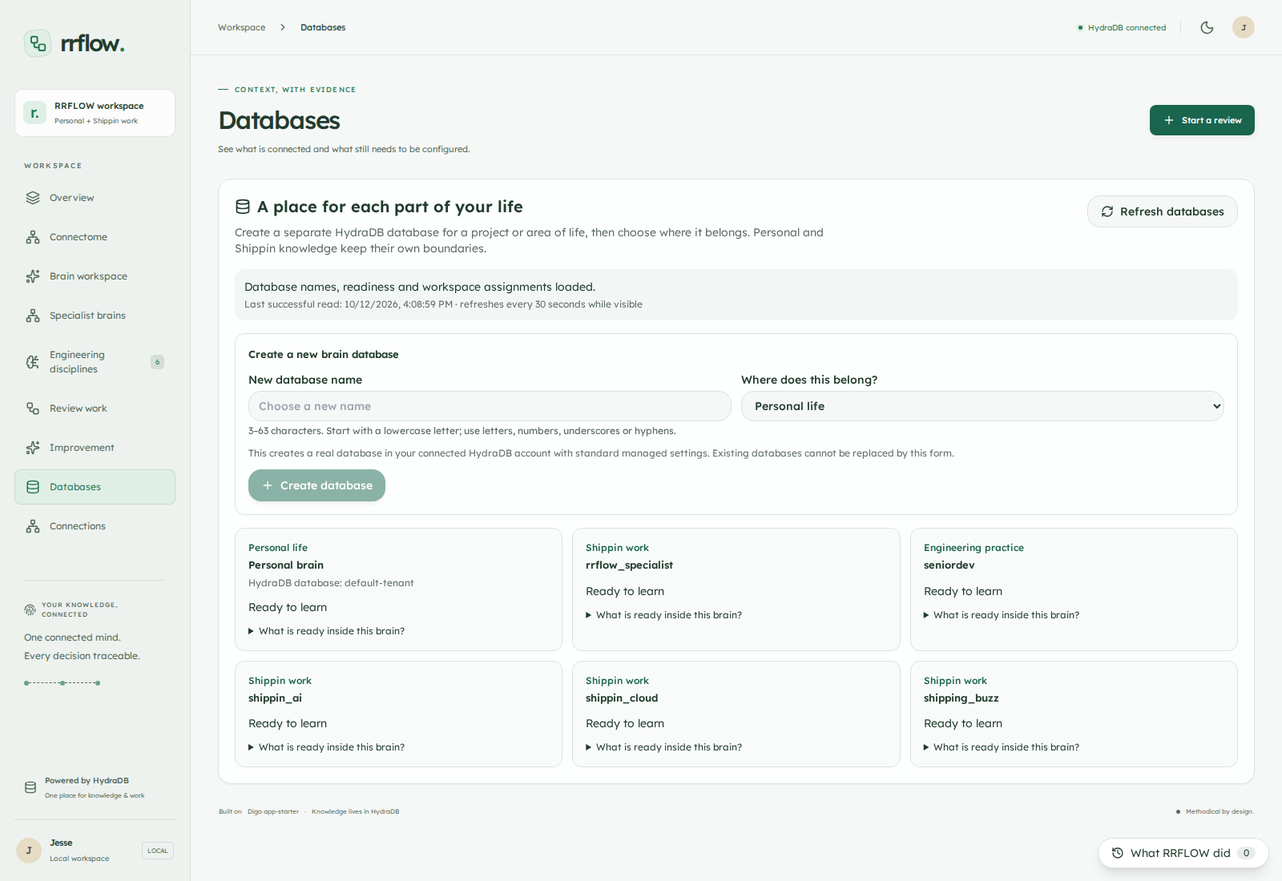
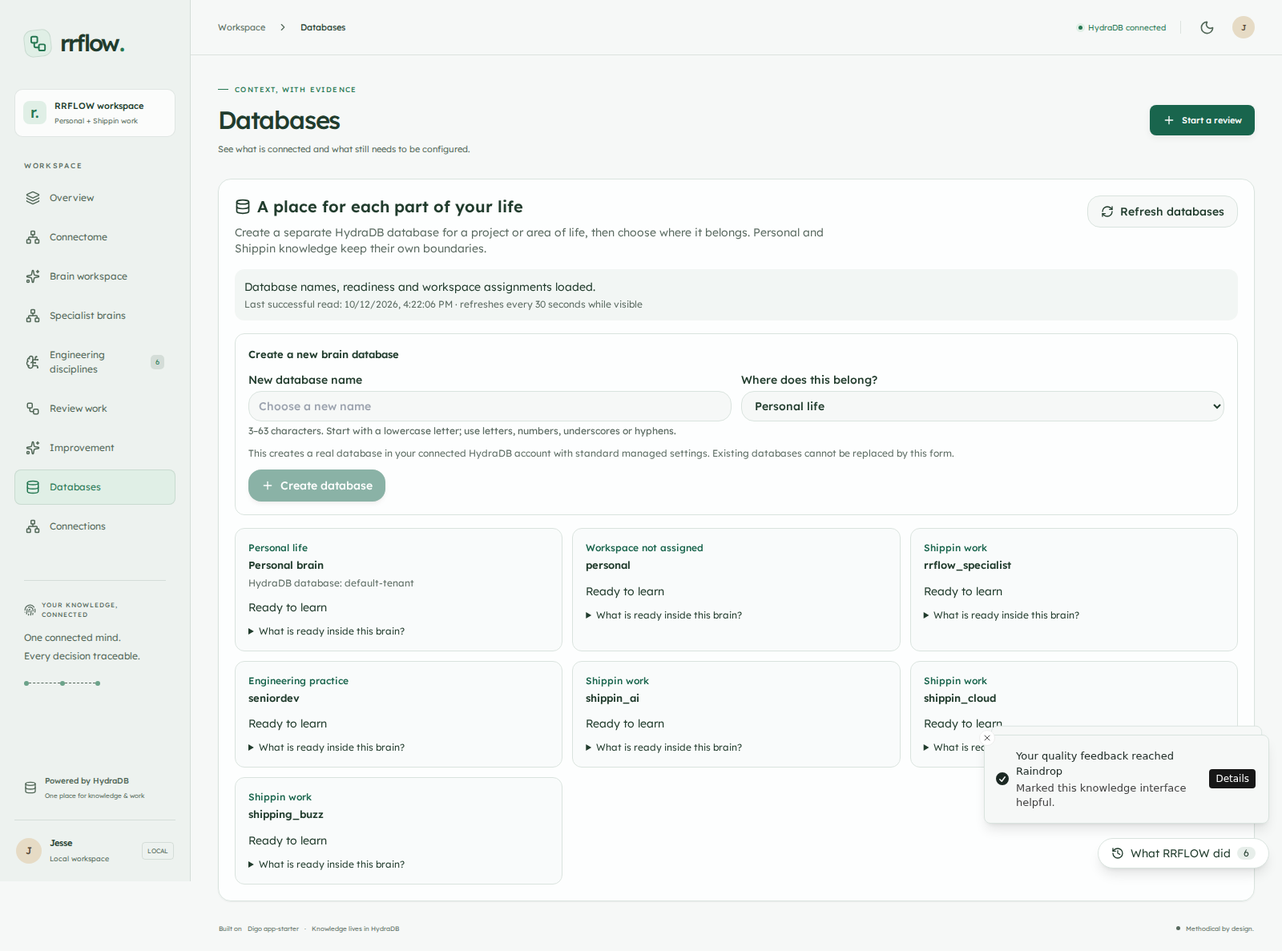
Bring live HydraDB context and Raindrop feedback into Overview

diff --git a/rrflow-app/apps/rrflow/src/components/brain-ui/brain-workspace.tsx b/rrflow-app/apps/rrflow/src/components/brain-ui/brain-workspace.tsx
@@ -15,7 +15,7 @@ type Avenue = BrainUiModel['avenues'][number];
 const sourceUrl = (url: string) => { try { return new URL(url).protocol === 'https:' ? url : undefined; } catch { return undefined; } };
 const time = (value: string) => new Date(value).toLocaleTimeString([], { hour: 'numeric', minute: '2-digit', second: '2-digit' });
 
-export const BrainWorkspace = () => {
+export const BrainWorkspace = ({ compact = false }: { compact?: boolean }) => {
   const [goal, setGoal] = useState('Prepare the shippin.cloud Next.js dashboard for launch: accessible interactions, loading states, and reliable data access.');
   const [stack, setStack] = useState<Exclude<BrainId, 'core'>>('nextjs');
   const [project, setProject] = useState<ProjectContext | null>(null);
@@ -88,7 +88,11 @@ export const BrainWorkspace = () => {
     if (!surface || !model || depth > 10) return null;
     const component = surface.components[id];
     if (!component) return <div key={id} className={styles.placeholder}>Waiting for interface content…</div>;
-    if (component.component === 'Column') return <div key={id} className={styles.surface}>{component.children.map(child => renderComponent(child, depth + 1))}</div>;
+    if (component.component === 'Column') {
+      const order: Record<string, number> = { WorkflowStatus: 0, BrainSummary: 1, Observation: 2, AvenueCard: 3 };
+      const children = compact ? [...component.children].sort((a, b) => (order[surface.components[a]?.component] ?? 4) - (order[surface.components[b]?.component] ?? 4)) : component.children;
+      return <div key={id} className={styles.surface}>{children.map(child => renderComponent(child, depth + 1))}</div>;
+    }
     if (component.component === 'WorkflowStatus') return <section key={id} className={styles.status} aria-label="Orchestration status">
       <div className={styles.sectionTitle}><Network size={18} /><h2>Work, with a visible trail</h2><span className={styles.badge}>Triggered workflow</span></div>
       <ol className={styles.stages}>
@@ -118,6 +122,8 @@ export const BrainWorkspace = () => {
     return <section key={id} className={styles.observation} aria-label="Raindrop quality">
       <div className={styles.sectionTitle}><Radio size={19} /><h2>Make the next result better</h2><span className={styles.badge}>Raindrop</span></div>
       <p>Report whether these avenues help with your work. Raindrop links that verdict to the source revisions and HydraDB requests behind this interface.</p>
+      <dl className={styles.alignmentFacts}><div><dt>Context selected from HydraDB</dt><dd>{model.brains.map(item => item.brain.name).join(' + ') || 'Waiting for knowledge'}</dd></div><div><dt>Knowledge avenues</dt><dd>{model.avenues.length}</dd></div><div><dt>Source revisions</dt><dd>{model.brains.length}</dd></div></dl>
+      <details className={styles.alignmentEvidence}><summary>Inspect the context behind this feedback</summary><p>Event {model.eventId}</p>{model.brains.map(item => <p key={item.brain.id}>{item.brain.name} · revision {item.brain.revision}</p>)}<p>{model.receipts.filter(receipt => receipt.service === 'HydraDB').length} HydraDB requests. Use “Inspect real requests” for timings and native request IDs.</p></details>
       <div className={styles.delivery} role="status">{model.observation.status === 'accepted' ? <Check size={16} /> : ['waiting', 'pending'].includes(model.observation.status) && isLoading ? <LoaderCircle className={styles.spin} size={16} /> : <CircleAlert size={16} />}
         {model.observation.status === 'accepted' ? 'Event accepted by Raindrop' : model.observation.status === 'pending' ? isLoading ? 'Reporting this interface… Knowledge is ready to use.' : 'Reporting completion is unknown. Retry to verify.' : model.observation.status === 'waiting' ? isLoading ? 'Waiting for the knowledge reads' : 'Reporting did not finish' : model.observation.status === 'not_configured' ? 'Raindrop reporting is not configured' : model.observation.error || 'Reporting failed. Knowledge remains available.'}
       </div>
@@ -131,8 +137,8 @@ export const BrainWorkspace = () => {
   };
 
   return <div className={styles.workspace}>
-    <section className={styles.intro}><span className={styles.kicker}><Sparkles size={15} /> KNOWLEDGE BECOMES YOUR WORKSPACE</span><h2>The right context.<br />Right where you work.</h2><p>Open a path through your engineering brains. Get sourced guidance, quick explanations, and the questions that deserve a closer look.</p></section>
-    <ProjectPicker project={project} onSelect={value => { setProject(value); setSurface(null); setError(''); const detected = (['nextjs', 'react', 'rust', 'go', 'typescript'] as const).find(id => value?.stack.includes(id)); if (detected) setStack(detected); }} disabled={isLoading || feedbackBusy || projectBusy} onBusy={setProjectBusy} />
+    <section className={styles.intro}><span className={styles.kicker}><Sparkles size={15} /> HYDRADB CONTEXT + RAINDROP FEEDBACK</span><h2>{compact ? 'Better context starts here.' : <>The right context.<br />Right where you work.</>}</h2><p>{compact ? 'Describe your work. Watch HydraDB populate the interface, inspect the sources, then tell Raindrop whether the selected context helps — all on this dashboard.' : 'Open a path through your engineering brains. Get sourced guidance, quick explanations, and the questions that deserve a closer look.'}</p></section>
+    <details open={compact ? undefined : true} className={styles.projectSection}><summary>Use an existing folder or GitHub project{project ? ` · ${project.name}` : ''}</summary><ProjectPicker project={project} onSelect={value => { setProject(value); setSurface(null); setError(''); const detected = (['nextjs', 'react', 'rust', 'go', 'typescript'] as const).find(id => value?.stack.includes(id)); if (detected) setStack(detected); }} disabled={isLoading || feedbackBusy || projectBusy} onBusy={setProjectBusy} /></details>
     <form className={styles.form} onSubmit={generate}>
       <label className={styles.goal}>What are you working on?<textarea value={goal} onChange={event => setGoal(event.target.value)} minLength={8} maxLength={1000} required rows={3} /></label>
       <div className={styles.formBottom}><label>Lead specialist<select value={stack} onChange={event => setStack(event.target.value as Exclude<BrainId, 'core'>)}>{brainIds.filter(id => id !== 'core').map(id => <option key={id} value={id}>{brainCatalog[id].name}</option>)}</select></label><Button className="primary-button" type="submit" disabled={isLoading || feedbackBusy || projectBusy}>{isLoading ? <LoaderCircle size={17} className={styles.spin} /> : <Sparkles size={17} />}{isLoading ? model && model.status.phase !== 'loading' ? 'Reporting quality…' : 'Opening knowledge…' : 'Build my workspace'}{!isLoading && <ArrowRight size={16} />}</Button>{isLoading && <Button variant="ghost" type="button" onClick={() => controller.current?.abort()}>Stop</Button>}</div>

diff --git a/rrflow-app/apps/rrflow/src/components/dashboard.tsx b/rrflow-app/apps/rrflow/src/components/dashboard.tsx
@@ -152,12 +152,14 @@ export const Dashboard = () => {
         </header>
 
         <main id="main" tabIndex={-1}>
-          <div className="page-heading"><div><div className="eyebrow accent"><span className="tiny-line" /> CONTEXT, WITH EVIDENCE</div><h1>{view === 'overview' ? 'Your engineering mind.' : displayName}</h1><p>{view === 'overview' ? 'Connected knowledge. Deliberate decisions. Better things shipped.' : view === 'connectome' ? 'Memories, research, and source connections — all in one explorable view.' : view === 'live' ? 'Live knowledge and memory for your company and service specialists.' : view === 'brain-ui' ? 'A living workspace, populated from your knowledge and measured with Raindrop.' : view === 'brains' ? 'Explore the research and questions behind every specialist.' : view === 'reviews' ? 'Make the work explicit, then gather the evidence to verify it.' : view === 'improvement' ? 'Learn from measured outcomes. Keep every revision traceable.' : 'See what is connected and what still needs to be configured.'}</p></div><Button className="primary-button" onClick={() => setNewReview(true)} disabled={!hasBrains || !workspace?.connected}><Plus size={16} />Start a review</Button></div>
+          <div className="page-heading"><div><div className="eyebrow accent"><span className="tiny-line" /> CONTEXT, WITH EVIDENCE</div><h1>{view === 'overview' ? 'Your context. Working together.' : displayName}</h1><p>{view === 'overview' ? 'HydraDB knowledge, generated guidance, and Raindrop feedback — in one live dashboard.' : view === 'connectome' ? 'Memories, research, and source connections — all in one explorable view.' : view === 'live' ? 'Live knowledge and memory for your company and service specialists.' : view === 'brain-ui' ? 'A living workspace, populated from your knowledge and measured with Raindrop.' : view === 'brains' ? 'Explore the research and questions behind every specialist.' : view === 'reviews' ? 'Make the work explicit, then gather the evidence to verify it.' : view === 'improvement' ? 'Learn from measured outcomes. Keep every revision traceable.' : 'See what is connected and what still needs to be configured.'}</p></div><Button className="primary-button" onClick={() => setNewReview(true)} disabled={!hasBrains || !workspace?.connected}><Plus size={16} />Start a review</Button></div>
 
           {error && <div role="alert" className="message error"><CircleAlert size={18} /><span>{error}{hasBrains && !workspace?.connected && <small className="stale-notice">Showing the last successful read from {readableTime(workspace!.checkedAt)}.</small>}</span><Button variant="ghost" size="sm" onClick={() => void refresh()}>Retry connection</Button></div>}
           {notice && <div role="status" className="message notice">{busy ? <LoaderCircle size={18} className="spin" /> : <Check size={18} />}<span>{notice}</span></div>}
           {!workspace && !error && <div className="loading-bar" role="status"><LoaderCircle size={17} className="spin" />Connecting to your knowledge workspace…</div>}
           {workspace?.connected && !hasBrains && <section className="onboarding glass"><div className="onboarding-orb"><BrainCircuit size={35} /></div><div><span className="eyebrow accent">YOUR FOUNDATION IS READY</span><h2>Give your specialist its knowledge.</h2><p>Import your six existing research documents. RRFLOW will connect each question to its source and organize it into knowledge avenues.</p><p className="fine-print">Research drafts remain drafts. Importing does not validate their claims.</p><Button className="primary-button" onClick={handleImport} disabled={busy}>{busy ? <LoaderCircle className="spin" size={16} /> : <ArrowDownToLine size={16} />}Import research into HydraDB</Button></div></section>}
+
+          {view === 'overview' && <section aria-label="Live context and quality" className="mb-8"><LiveMesh embedded dashboard><BrainWorkspace compact /></LiveMesh></section>}
 
           {hasBrains && (view === 'overview' || view === 'brains') && <>
             <div className="stats-strip">

diff --git a/rrflow-app/apps/rrflow/src/components/live/live-mesh.tsx b/rrflow-app/apps/rrflow/src/components/live/live-mesh.tsx
@@ -1,5 +1,5 @@
 'use client';
-import { useCallback, useEffect, useRef, useState } from 'react';
+import { useCallback, useEffect, useRef, useState, type ReactNode } from 'react';
 import { Activity, BookOpen, Brain, Clock, Database, RefreshCw, TriangleAlert, Zap } from 'lucide-react';
 import { cn } from '@/lib/utils';
 import type { MeshSnapshot } from '@/lib/mesh-contracts';
@@ -45,7 +45,7 @@ const buildTickers = (snapshot: MeshSnapshot, now: number): Ticker[] => {
   ];
 };
 
-export const LiveMesh = ({ embedded = false }: { embedded?: boolean }) => {
+export const LiveMesh = ({ embedded = false, dashboard = false, children }: { embedded?: boolean; dashboard?: boolean; children?: ReactNode }) => {
   const [snapshot, setSnapshot] = useState<MeshSnapshot | null>(null);
   const [failure, setFailure] = useState<string | null>(null);
   const [isRefreshing, setIsRefreshing] = useState(false);
@@ -145,7 +145,7 @@ export const LiveMesh = ({ embedded = false }: { embedded?: boolean }) => {
             ))}
           </section>
 
-          <section aria-labelledby="reasoning-heading" className="rounded-lg border border-border bg-card p-4">
+          {!dashboard && <section aria-labelledby="reasoning-heading" className="rounded-lg border border-border bg-card p-4">
             <h2 id="reasoning-heading" className="text-lg font-semibold">How RRFLOW works through a task</h2>
             <ol className="mt-4 grid gap-3 sm:grid-cols-2 lg:grid-cols-6">
               {REASONING_STEPS.map((step, index) => (
@@ -156,15 +156,17 @@ export const LiveMesh = ({ embedded = false }: { embedded?: boolean }) => {
                 </li>
               ))}
             </ol>
-          </section>
+          </section>}
 
-          <BrainMesh brains={snapshot.brains} shippinContext={snapshot.shippinContext} otherDatabases={snapshot.otherDatabases}
-            raindropProject={snapshot.raindropProject} now={now} />
+          {!dashboard && <BrainMesh brains={snapshot.brains} shippinContext={snapshot.shippinContext} otherDatabases={snapshot.otherDatabases}
+            raindropProject={snapshot.raindropProject} now={now} />}
 
           <RaindropCard project={snapshot.raindropProject} isMonitored={snapshot.isMonitored} now={now} />
 
+          {children}
+
           <div className="grid grid-cols-1 gap-6 lg:grid-cols-2">
-            <LearningFeed items={snapshot.learning} now={now} error={snapshot.learningError} requestId={snapshot.learningRequestId} />
+            <LearningFeed items={dashboard ? snapshot.learning.slice(0, 4) : snapshot.learning} now={now} error={snapshot.learningError} requestId={snapshot.learningRequestId} />
             <AskBrain />
           </div>
         </>

diff --git a/rrflow-app/apps/rrflow/tests/brain-ui.spec.ts b/rrflow-app/apps/rrflow/tests/brain-ui.spec.ts
@@ -14,6 +14,30 @@ const fixtureMessages = (data: BrainUiModel): BrainUiMessage[] => [
   { version: 'v0.9.1', updateComponents: { surfaceId: eventId, components: [{ id: 'root', component: 'Column', children: ['status', 'observation'] }, { id: 'status', component: 'WorkflowStatus', path: '/status' }, { id: 'observation', component: 'Observation', path: '/observation' }] } },
 ];
 
+test('Overview generates HydraDB context and records alignment feedback without leaving the dashboard', async ({ page }) => {
+  await page.setExtraHTTPHeaders({ 'x-rrflow-verification': 'playwright' });
+  await page.goto('/');
+  const dashboard = page.getByRole('region', { name: 'Live context and quality' });
+  await expect(dashboard.getByRole('region', { name: 'Live figures' })).toBeVisible();
+  const reporting = dashboard.getByRole('region', { name: 'Quality monitoring · Raindrop' });
+  await expect(reporting).toContainText('Reporting to project rrflow-hydradb');
+  await dashboard.getByRole('button', { name: 'Build my workspace', exact: true }).click();
+  const alignment = dashboard.getByRole('region', { name: 'Raindrop quality' });
+  await expect(alignment).toContainText('Event accepted by Raindrop');
+  await expect(alignment).toContainText('Engineering core + Next.js + TypeScript');
+  await alignment.getByText('Inspect the context behind this feedback', { exact: true }).click();
+  await expect(alignment).toContainText('6 HydraDB requests');
+  await alignment.getByRole('button', { name: 'This helps', exact: true }).click();
+  await expect(alignment).toContainText('Marked helpful.');
+  await expect(reporting.locator('dl > div').filter({ hasText: 'Events accepted' }).locator('dd')).toHaveText('1');
+  await expect(reporting.locator('dl > div').filter({ hasText: 'Verdicts accepted' }).locator('dd')).toHaveText('1');
+  await expect(reporting.locator('dl > div').filter({ hasText: 'Failed deliveries' }).locator('dd')).toHaveText('0');
+  await alignment.scrollIntoViewIfNeeded();
+  await page.screenshot({ path: 'test-results/dashboard-context-alignment.png', animations: 'disabled' });
+  await page.setViewportSize({ width: 390, height: 844 });
+  expect(await page.evaluate(() => document.documentElement.scrollWidth <= innerWidth)).toBeTruthy();
+});
+
 test('brain knowledge drives A2UI tooltips, dialogs, quality feedback and responsive themes', async ({ page }, testInfo) => {
   await page.setExtraHTTPHeaders({ 'x-rrflow-verification': 'playwright' });
   // Inspect the same streaming response the UI consumes. Chromium can discard

diff --git a/rrflow-app/apps/rrflow/src/components/brain-ui/brain-workspace.module.css b/rrflow-app/apps/rrflow/src/components/brain-ui/brain-workspace.module.css
@@ -1,4 +1,6 @@
 .workspace { display: grid; gap: 22px; min-width: 0; padding-bottom: 45px; }
+.projectSection { min-width: 0; }.projectSection > summary { cursor: pointer; font-size: 12px; color: var(--accent); padding: 12px 0; }
+.alignmentFacts { display: grid; grid-template-columns: minmax(0,2fr) repeat(2,minmax(0,1fr)); gap: 16px; padding: 16px; border: 1px solid var(--line); border-radius: 12px; background: var(--accent-soft); }.alignmentFacts dt { font-size: 11px; color: var(--muted); margin-bottom: 8px; }.alignmentFacts dd { font-size: 13px; font-weight: 500; line-height: 1.6; }.alignmentEvidence { font-size: 11px; color: var(--muted); margin: 16px 0; overflow-wrap: anywhere; }.alignmentEvidence summary { cursor: pointer; color: var(--accent); }.alignmentEvidence p { margin-top: 8px; }@media(max-width:600px) { .alignmentFacts { grid-template-columns: 1fr; } }
 .intro { padding: 24px 0 2px; max-width: 740px; }
 .kicker { display: flex; gap: 8px; align-items: center; color: var(--accent); font-size: 10px; letter-spacing: 1.4px; }
 .intro h2 { font-size: clamp(28px, 3.5vw, 43px); line-height: 1.14; letter-spacing: -1.4px; margin: 17px 0; }

diff --git a/rrflow-app/apps/rrflow/tests/connectome.spec.ts b/rrflow-app/apps/rrflow/tests/connectome.spec.ts
@@ -53,7 +53,7 @@ test('context refresh shows newly returned memories and reports failed source re
   revision++;
   await map.getByRole('button', { name: 'Refresh context', exact: true }).click();
   await expect(map.getByRole('button').filter({ hasText: 'Corrected memory' })).toBeVisible();
-  await expect(map.getByRole('alert')).toContainText('Source service unavailable');
+  await expect(map.getByRole('alert').filter({ hasText: 'Source service unavailable' })).toBeVisible();
   await expect(map.getByRole('button').filter({ hasText: 'First memory' })).toHaveCount(0);
 });
 

diff --git a/rrflow-app/apps/rrflow/next.config.ts b/rrflow-app/apps/rrflow/next.config.ts
@@ -1,5 +1,6 @@
 import type { NextConfig } from 'next';
 const config: NextConfig = {
+  distDir: process.env.RRFLOW_DIST_DIR || '.next',
   poweredByHeader: false,
   devIndicators: false,
   webpack(config, { dev }) {

diff --git a/submission/THREE_MINUTE_DEMO.md b/submission/THREE_MINUTE_DEMO.md
@@ -1,6 +1,6 @@
 # RRFLOW — three-minute live presentation
 
-Open RRFLOW at http://127.0.0.1:3100 and keep the Raindrop project in a second tab. Use Shippin and engineering lessons for screen sharing; keep personal email contents off the presentation. No server restart is needed.
+Open RRFLOW at http://127.0.0.1:3100. **Overview now contains live HydraDB context, generated A2UI guidance, Raindrop delivery counts, and alignment feedback together.** The external Raindrop tab is optional supporting evidence. Use Shippin and engineering lessons for screen sharing; keep personal email contents off the presentation. No server restart is needed.
 
 **Ready-to-show Raindrop evidence:** [generated workspace and context-alignment feedback](https://app.raindrop.ai/events?org=ea2ca283&project=rrflow-hydradb&event=6576c8be-0b0f-510b-a137-aec6aec33451&tab=overview) — Details shows Brain UI helpful, nine avenues, Engineering core / Next.js / TypeScript, source revisions, and six native request IDs. This event came from the live Playwright verification. [Lesson retrieval with helpful feedback](https://app.raindrop.ai/events?org=ea2ca283&project=rrflow-hydradb&event=2a0539cd-b479-423a-bf64-ec0d5752b364&tab=overview) is the matching retrieval example.
 
@@ -18,19 +18,19 @@ Open RRFLOW at http://127.0.0.1:3100 and keep the Raindrop project in a second t
 
 ## 1:00–1:40 · Make the interface from knowledge
 
-**Click:** Brain workspace → Build my workspace. Open an avenue’s information button, then close it.
+**Click:** Overview → Build my workspace. Open an avenue’s information button, then close it. The Raindrop alignment panel appears above the avenue cards.
 
 “Instead of hunting through a document library, I describe the work. RRFLOW retrieves the relevant research and streams an A2UI workspace: guidance, explanations, and drill-down questions generated from the stored knowledge. Watch the read status and first-evidence time. The current routing is deterministic and traceable. It shows what needs checking, without pretending those checks have already run. I can also attach an existing folder or GitHub project.”
 
 ## 1:40–2:30 · Raindrop, visibly in action
 
-**Click:** Specialist brains → Senior dev practices. Ask: `Why does infisical secrets get fail in Git Bash?` → Ask → inspect the retrieved evidence → Yes. Scroll to **Quality monitoring · Raindrop**, then open Raindrop and select the newest matching event.
+**Stay on Overview:** **Make the next result better** shows the selected brains, nine avenues, and three source revisions. Expand **Inspect the context behind this feedback**, then click **This helps**. **Quality monitoring · Raindrop** updates its accepted event/verdict counts from real delivery receipts. The **Ask a brain** panel below also lets you retrieve the Git Bash lesson and submit a retrieval verdict without changing pages.
 
-“Now the specialist retrieves the lesson we learned earlier. This is reuse of experience, with the actual source and HydraDB request ID. My helpfulness feedback goes to Raindrop. Here in our UI you can see the event and verdict delivery; here in Raindrop you can inspect the same interaction and its signal. Quality becomes visible evidence we can use when reviewing future improvements.”
+“This panel shows exactly which context was selected. Here are the brains, the source revisions, and the native requests behind the result. When I say this helps, Raindrop accepts the verdict and our dashboard shows the delivery. Context and quality stay together, right where I work. That feedback becomes evidence for reviewing future context-selection improvements.”
 
 ## 2:30–3:00 · Recursive learning, with human oversight
 
-**Screen:** Raindrop event with its helpfulness signal, then return to the connectome.
+**Screen:** The dashboard's accepted feedback and selected-context panel. The native Raindrop event is optional if time permits.
 
 “That is our recursive-learning direction: experience becomes memory, memory guides the next task, and feedback tells us what to improve. Today, recorded lessons are retrieved and reused, and quality feedback is captured. Automatic lesson promotion and measured prompt improvement are the next step, with human review. RRFLOW’s goal is simple: make the next task benefit from what the last one taught us.”
 

diff --git a/coordination/CODEX_REPLY.md b/coordination/CODEX_REPLY.md
@@ -1,5 +1,11 @@
 # Codex implementation handoff — October 12
 
+## Current release: context and Raindrop together on Overview
+
+Following the release handback, Codex completed dashboard.tsx, brain-workspace.tsx/CSS, live-mesh.tsx, capture-submission.mjs, tests, launcher/config, and release documentation. Overview now shows native HydraDB readiness/counts, Raindrop delivery receipts, generated guidance, context selection and source revisions, helpful/missing-context feedback, lessons, and retrieval in one view. Existing specialist and brain-workspace navigation remains available.
+
+The production build passed in `.next-presentation`, followed by one successful port-3100 switch. Root `pnpm verify` passed TypeScript, ESLint, and all 26 Playwright scenarios in 46.0 seconds without retries. The credentialless CI alert selector now targets its source-service failure explicitly. Screenshots 11–12 and the timed demo show the integrated dashboard. App tab has a generated workspace with feedback controls ready for Jesse; leave the server running. Feedback is captured, while automatic prompt promotion remains future work.
+
 ## Current release: Personal, connectome, and demo evidence
 
 Codex owns the final combined release following Claude's acknowledged handback. Current production build is running on port 3100 and stays stable for Jesse's testing/presentation. Root `pnpm verify` now passes TypeScript, ESLint, and all 25 Playwright scenarios (56.5s, no retries). New source includes native database management, default-tenant Personal scope, the project picker, the connections console, and repository-sync fixes. Submission screenshots 07–10 and THREE_MINUTE_DEMO.md are ready. Actual Raindrop read-back confirms both Answer helpful and Brain UI helpful signals; exact event IDs are in implementation evidence. Root Git is the only repository; all non-ignored deliverables belong in this release. Earlier seven-test handoffs below are historical.

diff --git a/research/IMPLEMENTATION_EVIDENCE.md b/research/IMPLEMENTATION_EVIDENCE.md
@@ -1,5 +1,13 @@
 # RRFLOW implementation evidence — October 12, 2026
 
+## Integrated Overview presentation release
+
+The running production dashboard now places HydraDB live figures, Raindrop delivery status, generated A2UI guidance, selected context and source revisions, feedback controls, recorded lessons, and retrieval together on Overview. Context inspection exposes the actual event ID, source revisions, and HydraDB request count. The presentation no longer requires leaving the dashboard to give alignment feedback.
+
+Production build passed using `.next-presentation`; the launcher switched port 3100 to that build after compilation finished. Root `pnpm verify` passed TypeScript, ESLint, and all **26 Playwright scenarios in 46.0 seconds**, without retries. The new Overview test generated nine avenues from Engineering core, Next.js, and TypeScript, inspected six HydraDB requests and three source revisions, then verified accepted feedback and monitoring counts. Accessibility, both themes, and mobile checks remain covered. The credentialless CI test now selects the specific source-service alert when multiple provider alerts are present.
+
+Screenshots `11-dashboard-hydradb-raindrop.png` and `12-dashboard-context-alignment.png` capture the real integrated flow. The screenshot helper also re-ran native retrieval and feedback: event `9ec69549-b8af-4618-b460-5db313e16e67`, HydraDB request `289a350e-d171-4666-adb1-5b58f6861f30`, event HTTP 200 and feedback HTTP 204. These are demonstration interactions, not evidence of an automatic prompt-improvement experiment.
+
 ## Combined Personal / Shippin release
 
 The workspace root is now the single repository; `rrflow-app` is its application directory. The production build includes the connectome, database manager, project picker, connector/webhook console, and repository sync status. Port 3100 stays running while Jesse tests and presents.

diff --git a/rrflow-app/README.md b/rrflow-app/README.md
@@ -27,8 +27,17 @@ wsl -d Ubuntu -- bash /mnt/d/localdev/rrflow-hydradb/rrflow-app/scripts/wsl-run.
 
 The WSL helper currently names this workstation's Node 22.23.3 installation. Adapt that one path when moving machines. Development uses Webpack polling because Windows edits on `/mnt/d` did not reliably invalidate WSL Turbopack routes.
 
+To compile without replacing the running server's build files, use a separate output directory. Switch servers only after the build succeeds:
+
+```powershell
+wsl -d Ubuntu -- env RRFLOW_DIST_DIR=.next-presentation bash /mnt/d/localdev/rrflow-hydradb/rrflow-app/scripts/wsl-run.sh build
+# Stop the previous port-3100 server before launching this build.
+./scripts/start-local.ps1 -Mode start -BuildDirectory .next-presentation
+```
+
 ## What works
 
+- Overview combines live HydraDB status, generated knowledge avenues, source revisions, Raindrop delivery receipts and feedback, lessons, and retrieval. Select **Build my workspace**, inspect its context, then choose **This helps** or **Missing context** on the same dashboard.
 - Light/dark dashboard, native graph exploration, discipline search, source/question drill-down, responsive layout.
 - Connectome with typed lessons/practices/sources, source evidence, native graph relationships, search, filters, and visible refresh times. Context avenues sit inside the connectome. Native HydraDB graph/context and Digo app-starter are directly linked.
 - Existing folder or GitHub project selection, with Personal/Shippin scope, bounded metadata snapshots saved in HydraDB, exact GitHub commit references, and project-aware knowledge selection. It never executes discovered scripts.

diff --git a/TEAM.md b/TEAM.md
@@ -27,7 +27,7 @@ Updated October 12, 2026. Codex and the existing Claude Code session work in the
 - Managed specialist databases: `rrflow_specialist`, `shippin_cloud`, `shippin_ai`, `shipping_buzz`, `seniordev`. Live readiness, counts, memory feed, and selected-brain hybrid retrieval come from HydraDB.
 - Graph identity: database + collection + label + ext_id. Managed content identity: database + type + native ID. Do not assume BYOG node IDs and managed retrieval IDs are interchangeable.
 - A single initial Workspace probe was written to default-tenant/rrflow before the team aligned on seniordev. No research was imported there; it is not an active second store.
-- Production build and root pnpm verify passed, including 25 Playwright scenarios. Light/dark and specialist-view automated axe checks passed. Mobile and desktop layout checks passed. See implementation evidence for the latest combined release.
+- Production build and root pnpm verify passed, including 26 Playwright scenarios in 46.0 seconds. Overview now includes native HydraDB status, generated context, Raindrop delivery and feedback, lessons, and recall. Light/dark accessibility and mobile/desktop layout checks passed. See implementation evidence for the latest combined release.
 - Native Raindrop cloud setup and real event/feedback read-back are verified for rrflow-hydradb. Both Infisical names match; the launcher uses canonical RAINDROP_WRITE_KEY. See implementation evidence for event and native request IDs.
 
 ## File ownership
